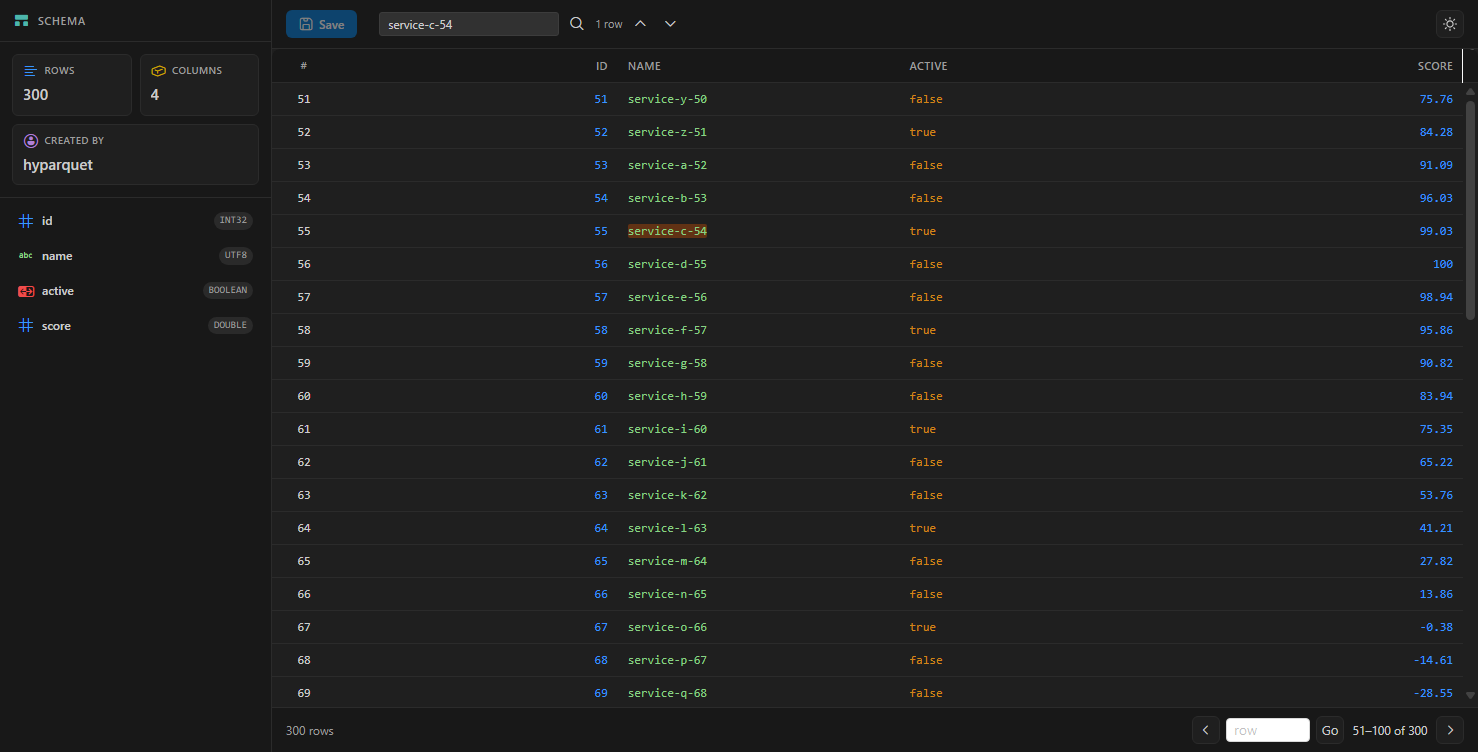
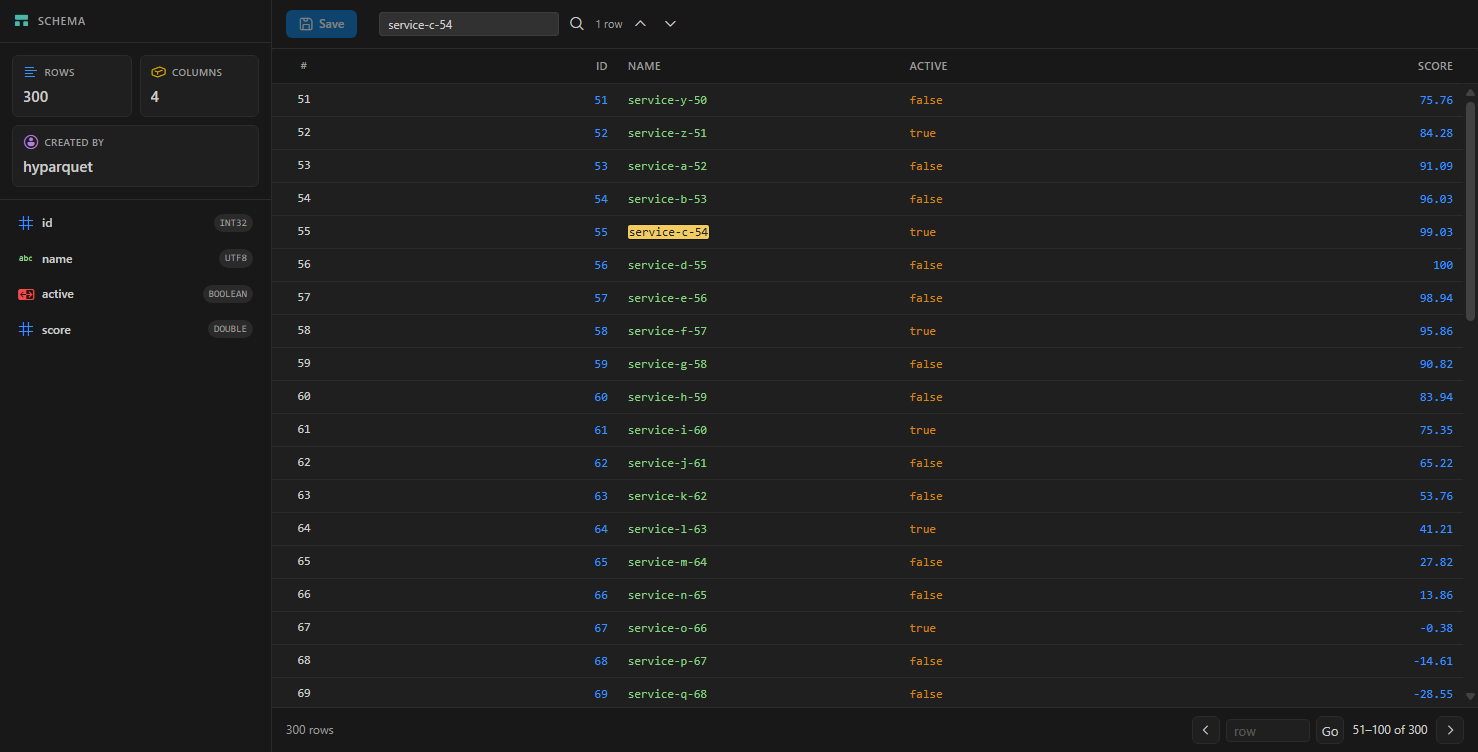
fix(theme): follow the VS Code theme, and make search marks readable
The parquet viewer had three independent colour sources: a hard-coded palette flipped by a
button, --vscode-* variables, and antd's default light tokens. They disagreed whenever the
toggle and the editor theme differed, which is what the screenshots showed: a black search box
on a light page and a white row box on a dark one.

- The manual switch is gone (palette, storage, button, strings). The view follows VS Code like
  the JSONL viewer already did, through useVscodeDarkTheme() so live theme changes apply.
- antd is now wrapped in ConfigProvider with tokens read from the same --vscode-* variables
  the stylesheet uses, so widgets and page cannot drift apart again.
- Search marks: shared .jsonl-hit/.parquet-viewer__hit rule in src/react/common/highlight.less.
  They were a translucent orange wash with color: inherit - invisible on top of the green
  string colour both views use. Now opaque amber with a forced foreground and a hairline ring.

Coverage: a new scenario, parquet-theme-follows-vscode, asserts the computed luminance of the
native input and of the antd input under both themes - the exact pair that disagreed.

diff --git a/src/react/view/parquet/Parquet.tsx b/src/react/view/parquet/Parquet.tsx
@@ -1,10 +1,10 @@
-import { MoonOutlined, SunOutlined } from '@ant-design/icons';
-import { App, Input, type InputRef, Table } from 'antd';
+import { App, ConfigProvider, Input, theme as antdTheme, type InputRef, Table } from 'antd';
 import type { ColumnsType } from 'antd/es/table';
 import { useCallback, useEffect, useMemo, useRef, useState } from 'react';
 import '@vscode/codicons/dist/codicon.css';
 import { $t } from '../../i18n/i18nConfig.ts';
-import { handler, vscodeApi } from '../../util/vscode.ts';
+import { handler } from '../../util/vscode.ts';
+import { getVscodeThemeColor, useVscodeDarkTheme } from '../../util/vscodeTheme.ts';
 import { arrayBufferFromPayload } from '../../util/loadOfficeContent.ts';
 import { openParquetSource } from '../../util/parquetSource.ts';
 import { highlightRuns } from '../../common/highlight.ts';
@@ -44,32 +44,6 @@ function highlightCell(text: string, needle: string) {
     });
     return parts;
 }
-const PARQUET_VSCODE_THEME_KEY = 'parquet-vscode-theme';
-
-function loadParquetVscodeTheme(): boolean {
-    const state = vscodeApi?.getState?.() as { parquetVscodeTheme?: boolean } | undefined;
-    if (state?.parquetVscodeTheme !== undefined) {
-        return state.parquetVscodeTheme;
-    }
-    try {
-        const saved = localStorage.getItem(PARQUET_VSCODE_THEME_KEY);
-        if (saved !== null) {
-            return saved === '1';
-        }
-    } catch { }
-    return true;
-}
-
-function saveParquetVscodeTheme(vscodeTheme: boolean) {
-    try {
-        localStorage.setItem(PARQUET_VSCODE_THEME_KEY, vscodeTheme ? '1' : '0');
-    } catch { }
-    if (vscodeApi?.setState) {
-        const prev = (vscodeApi.getState?.() ?? {}) as Record<string, unknown>;
-        vscodeApi.setState({ ...prev, parquetVscodeTheme: vscodeTheme });
-    }
-}
-
 /** Icon per category. The category itself is decided once, in parquetParser.categorizeType. */
 const COLUMN_ICONS: Record<ColumnCategory, string> = {
     bool: 'codicon-symbol-boolean',
@@ -120,7 +94,6 @@ function ParquetViewer() {
     const [readOnly, setReadOnly] = useState(false);
     /** `${absoluteRow}:${column}` for every patched cell, so render never reads a ref. */
     const [editedCells, setEditedCells] = useState<Set<string>>(() => new Set());
-    const [vscodeTheme, setVscodeTheme] = useState(loadParquetVscodeTheme);
     const fileInfoRef = useRef<ParquetFileInfo | null>(null);
     /** Owns the page cache, the edit patches, cancellation and the page<->row arithmetic. */
     const sessionRef = useRef<ParquetSession | null>(null);
@@ -140,14 +113,6 @@ function ParquetViewer() {
             key: `${page}-${index}`,
         }));
     }, [pageRows, page]);
-
-    const toggleTheme = () => {
-        setVscodeTheme((prev) => {
-            const next = !prev;
-            saveParquetVscodeTheme(next);
-            return next;
-        });
-    };
 
     const cancelEdit = useCallback(() => {
         setEditingRow(null);
@@ -504,7 +469,7 @@ function ParquetViewer() {
     const tableHeight = inspected ? 'calc(100vh - 196px)' : 'calc(100vh - 132px)';
 
     return (
-        <div className={`parquet-viewer${vscodeTheme ? '' : ' parquet-viewer--light'}`}>
+        <div className="parquet-viewer">
             {loading && (
                 <div className="parquet-viewer__overlay">
                     <span className="codicon codicon-loading codicon-modifier-spin" />
@@ -647,15 +612,6 @@ function ParquetViewer() {
                                         )}
                                     </div>
                                 </div>
-                                <button
-                                    type="button"
-                                    className="parquet-theme-toggle"
-                                    title={vscodeTheme ? $t('common.switchToLight') : $t('common.switchToDark')}
-                                    onClick={toggleTheme}
-                                    aria-label={vscodeTheme ? $t('common.switchToLight') : $t('common.switchToDark')}
-                                >
-                                    {vscodeTheme ? <SunOutlined /> : <MoonOutlined />}
-                                </button>
                             </div>
                             <div className="parquet-viewer__table-wrap">
                                 <Table<TableRow>
@@ -765,11 +721,39 @@ function ParquetViewer() {
     );
 }
 
+/** antd tokens derived from the same VS Code variables the stylesheet uses. */
+function parquetAntdTheme(dark: boolean) {
+    return {
+        algorithm: dark ? antdTheme.darkAlgorithm : antdTheme.defaultAlgorithm,
+        token: {
+            // A transparent container renders antd inputs as borders floating on the
+            // toolbar; the table is flattened to the page in the stylesheet instead.
+            colorBgContainer: getVscodeThemeColor('--vscode-editor-background', dark ? '#1e1e1e' : '#ffffff'),
+            colorBgElevated: getVscodeThemeColor('--vscode-editorWidget-background', dark ? '#202020' : '#ffffff'),
+            colorBorder: getVscodeThemeColor('--vscode-panel-border', dark ? '#2b2b2b' : '#e5e5e5'),
+            colorText: getVscodeThemeColor('--vscode-foreground', dark ? '#cccccc' : '#3b3b3b'),
+            colorTextSecondary: getVscodeThemeColor('--vscode-descriptionForeground', dark ? '#9d9d9d' : '#717171'),
+            colorPrimary: getVscodeThemeColor('--vscode-button-background', '#0078d4'),
+            colorError: getVscodeThemeColor('--vscode-errorForeground', '#f14c4c'),
+            colorWarning: getVscodeThemeColor('--vscode-editorWarning-foreground', '#cca700'),
+            colorFillAlter: getVscodeThemeColor('--vscode-editorGroupHeader-tabsBackground', dark ? '#2d2d2d' : '#f3f4f6'),
+            fontFamily: getVscodeThemeColor('--vscode-font-family', '-apple-system, BlinkMacSystemFont, "Segoe UI", sans-serif'),
+            fontSize: Number.parseInt(getVscodeThemeColor('--vscode-font-size', '13px'), 10) || 13,
+            controlHeightSM: 22,
+            borderRadius: 4,
+        },
+    };
+}
+
 export default function Parquet() {
+    const dark = useVscodeDarkTheme();
+    const antTheme = useMemo(() => parquetAntdTheme(dark), [dark]);
     return (
-        <App className="parquet-app">
-            <ParquetViewer />
-        </App>
+        <ConfigProvider theme={antTheme}>
+            <App className="parquet-app">
+                <ParquetViewer />
+            </App>
+        </ConfigProvider>
     );
 }
 

diff --git a/src/react/view/parquet/Parquet.less b/src/react/view/parquet/Parquet.less
@@ -1,3 +1,5 @@
+@import '../../common/highlight.less';
+
 body:has(.parquet-app) {
     width: 100vw;
     height: 100vh;
@@ -50,39 +52,6 @@ body:has(.parquet-app) {
     overflow: hidden;
 }
 
-.parquet-viewer--light {
-    --pv-bg: #ffffff;
-    --pv-sider-bg: #f6f8fa;
-    --pv-header-bg: #f3f4f6;
-    --pv-border: #d8dee4;
-    --pv-fg: #1f2328;
-    --pv-muted: #656d76;
-    --pv-hover: #eef1f4;
-    --pv-active-bg: #ddf4ff;
-    --pv-active-fg: #0969da;
-    --pv-accent: #0969da;
-    --pv-accent-hover: #0550ae;
-    --pv-error: #cf222e;
-    --pv-input-bg: #ffffff;
-    --pv-input-border: #d0d7de;
-    --pv-shadow: 0 1px 0 rgba(27, 31, 36, 0.04);
-    --pv-type-bg: #eaeef2;
-    --pv-type-fg: #57606a;
-    --pv-banner-bg: #fff8c5;
-    --pv-banner-fg: #5c4b00;
-    --pv-scrollbar-thumb: #c7cad1;
-    --pv-scrollbar-track: #f3f4f6;
-    --pv-icon-rows: #0969da;
-    --pv-icon-columns: #bf8700;
-    --pv-icon-author: #8250df;
-    --pv-icon-schema: #0e8a87;
-    --pv-icon-bool: #cf222e;
-    --pv-icon-numeric: #0969da;
-    --pv-icon-string: #1a7f37;
-    --pv-icon-datetime: #8250df;
-    --pv-icon-structure: #0e8a87;
-    --pv-icon-field: #bf8700;
-}
 
 .parquet-icon {
     flex-shrink: 0;
@@ -700,13 +669,6 @@ body:has(.parquet-app) {
     font-size: 11px;
     color: var(--vscode-descriptionForeground, #9d9d9d);
     font-variant-numeric: tabular-nums;
-}
-
-.parquet-viewer__hit {
-    background: var(--vscode-editor-findMatchHighlightBackground, rgba(234, 92, 0, 0.33));
-    color: inherit;
-    border-radius: 2px;
-    padding: 0;
 }
 
 .parquet-table tbody tr.parquet-viewer__row--match > td {

diff --git a/src/react/util/vscodeTheme.ts b/src/react/util/vscodeTheme.ts
@@ -73,8 +73,19 @@ export function observeVscodeThemeChange(onChange: () => void): () => void {
     };
 }
 
-export function useVscodeSponsorDark(): boolean {
+/**
+ * The current VS Code theme kind, kept up to date when the user switches themes.
+ *
+ * Every view that has to branch on dark/light (antd algorithm, palette fallbacks) should use
+ * this rather than keeping its own switch: the parquet viewer used to own a manual toggle,
+ * which is how it ended up with three independent colour sources at once.
+ */
+export function useVscodeDarkTheme(): boolean {
     const [dark, setDark] = useState(isVscodeDarkTheme);
     useEffect(() => observeVscodeThemeChange(() => setDark(isVscodeDarkTheme())), []);
     return dark;
+}
+
+export function useVscodeSponsorDark(): boolean {
+    return useVscodeDarkTheme();
 }

diff --git a/src/react/common/highlight.less b/src/react/common/highlight.less
@@ -1,0 +1,18 @@
+/*
+ * Search highlights, shared by every view that marks matches in place.
+ *
+ * These used to be `--vscode-editor-findMatchHighlightBackground` with `color: inherit`: a
+ * translucent orange wash on top of text that already carries a syntax colour. On the JSONL
+ * tree (green strings) and the parquet grid (green string columns) the result read as "slightly
+ * different green", so a hit was invisible — and an invisible search highlight is a broken
+ * search. The mark is opaque and forces its own foreground, so it works regardless of what is
+ * underneath and in both theme kinds.
+ */
+.jsonl-hit,
+.parquet-viewer__hit {
+    background: #f2cc60;
+    color: #1f2328;
+    border-radius: 2px;
+    padding: 0 1px;
+    box-shadow: 0 0 0 1px rgba(0, 0, 0, 0.28);
+}

diff --git a/src/react/view/jsonl/Jsonl.less b/src/react/view/jsonl/Jsonl.less
@@ -1,3 +1,5 @@
+@import '../../common/highlight.less';
+
 body:has(.jsonl-viewer) {
     width: 100vw;
     height: 100vh;
@@ -495,13 +497,6 @@ body:has(.jsonl-viewer) {
     min-height: 120px;
     color: var(--jl-muted);
     font-size: 12px;
-}
-
-.jsonl-hit {
-    background: var(--vscode-editor-findMatchHighlightBackground, rgba(234, 92, 0, 0.33));
-    color: inherit;
-    border-radius: 2px;
-    padding: 0;
 }
 
 /* wrapping mode: variable row height, so the virtual list is off */

diff --git a/src/react/i18n/messages/ru.ts b/src/react/i18n/messages/ru.ts
@@ -11,8 +11,6 @@ export default {
         delete: 'Удалить',
         loading: 'Загрузка...',
         officeViewer: 'Просмотр Office',
-        switchToLight: 'Переключить на светлую тему',
-        switchToDark: 'Переключить на адаптивную тёмную тему',
         editInVscode: 'Редактировать в VS Code',
     },
     webUnsupported: {

diff --git a/src/react/i18n/messages/ja.ts b/src/react/i18n/messages/ja.ts
@@ -11,8 +11,6 @@ export default {
         delete: '削除',
         loading: '読み込み中...',
         officeViewer: 'Office Viewer',
-        switchToLight: 'ライトモードに切り替え',
-        switchToDark: 'アダプティブダークモードに切り替え',
         editInVscode: 'VS Code で編集',
     },
     webUnsupported: {

diff --git a/src/react/i18n/messages/pt-br.ts b/src/react/i18n/messages/pt-br.ts
@@ -11,8 +11,6 @@ export default {
         delete: 'Excluir',
         loading: 'Carregando...',
         officeViewer: 'Visualizador do Office',
-        switchToLight: 'Alternar para o modo claro',
-        switchToDark: 'Alternar para o modo escuro adaptativo',
         editInVscode: 'Editar no VS Code',
     },
     webUnsupported: {

diff --git a/src/react/i18n/messages/de.ts b/src/react/i18n/messages/de.ts
@@ -11,8 +11,6 @@ export default {
         delete: 'Löschen',
         loading: 'Wird geladen...',
         officeViewer: 'Office Viewer',
-        switchToLight: 'Zum hellen Modus wechseln',
-        switchToDark: 'Zum adaptiven dunklen Modus wechseln',
         editInVscode: 'In VS Code bearbeiten',
     },
     webUnsupported: {

diff --git a/src/react/i18n/messages/ko.ts b/src/react/i18n/messages/ko.ts
@@ -11,8 +11,6 @@ export default {
         delete: '삭제',
         loading: '로딩 중...',
         officeViewer: 'Office 뷰어',
-        switchToLight: '라이트 모드로 전환',
-        switchToDark: '적응형 다크 모드로 전환',
         editInVscode: 'VS Code에서 편집',
     },
     webUnsupported: {

diff --git a/src/react/i18n/messages/fr.ts b/src/react/i18n/messages/fr.ts
@@ -11,8 +11,6 @@ export default {
         delete: 'Supprimer',
         loading: 'Chargement...',
         officeViewer: 'Office Viewer',
-        switchToLight: 'Passer en mode clair',
-        switchToDark: 'Passer en mode sombre adaptatif',
         editInVscode: 'Modifier dans VS Code',
     },
     webUnsupported: {

diff --git a/src/react/i18n/messages/zh-cn.ts b/src/react/i18n/messages/zh-cn.ts
@@ -11,8 +11,6 @@ export default {
         delete: '删除',
         loading: '加载中...',
         officeViewer: 'Office 查看器',
-        switchToLight: '切换到浅色模式',
-        switchToDark: '切换到自适应深色模式',
         editInVscode: '在 VS Code 中编辑',
     },
     webUnsupported: {
